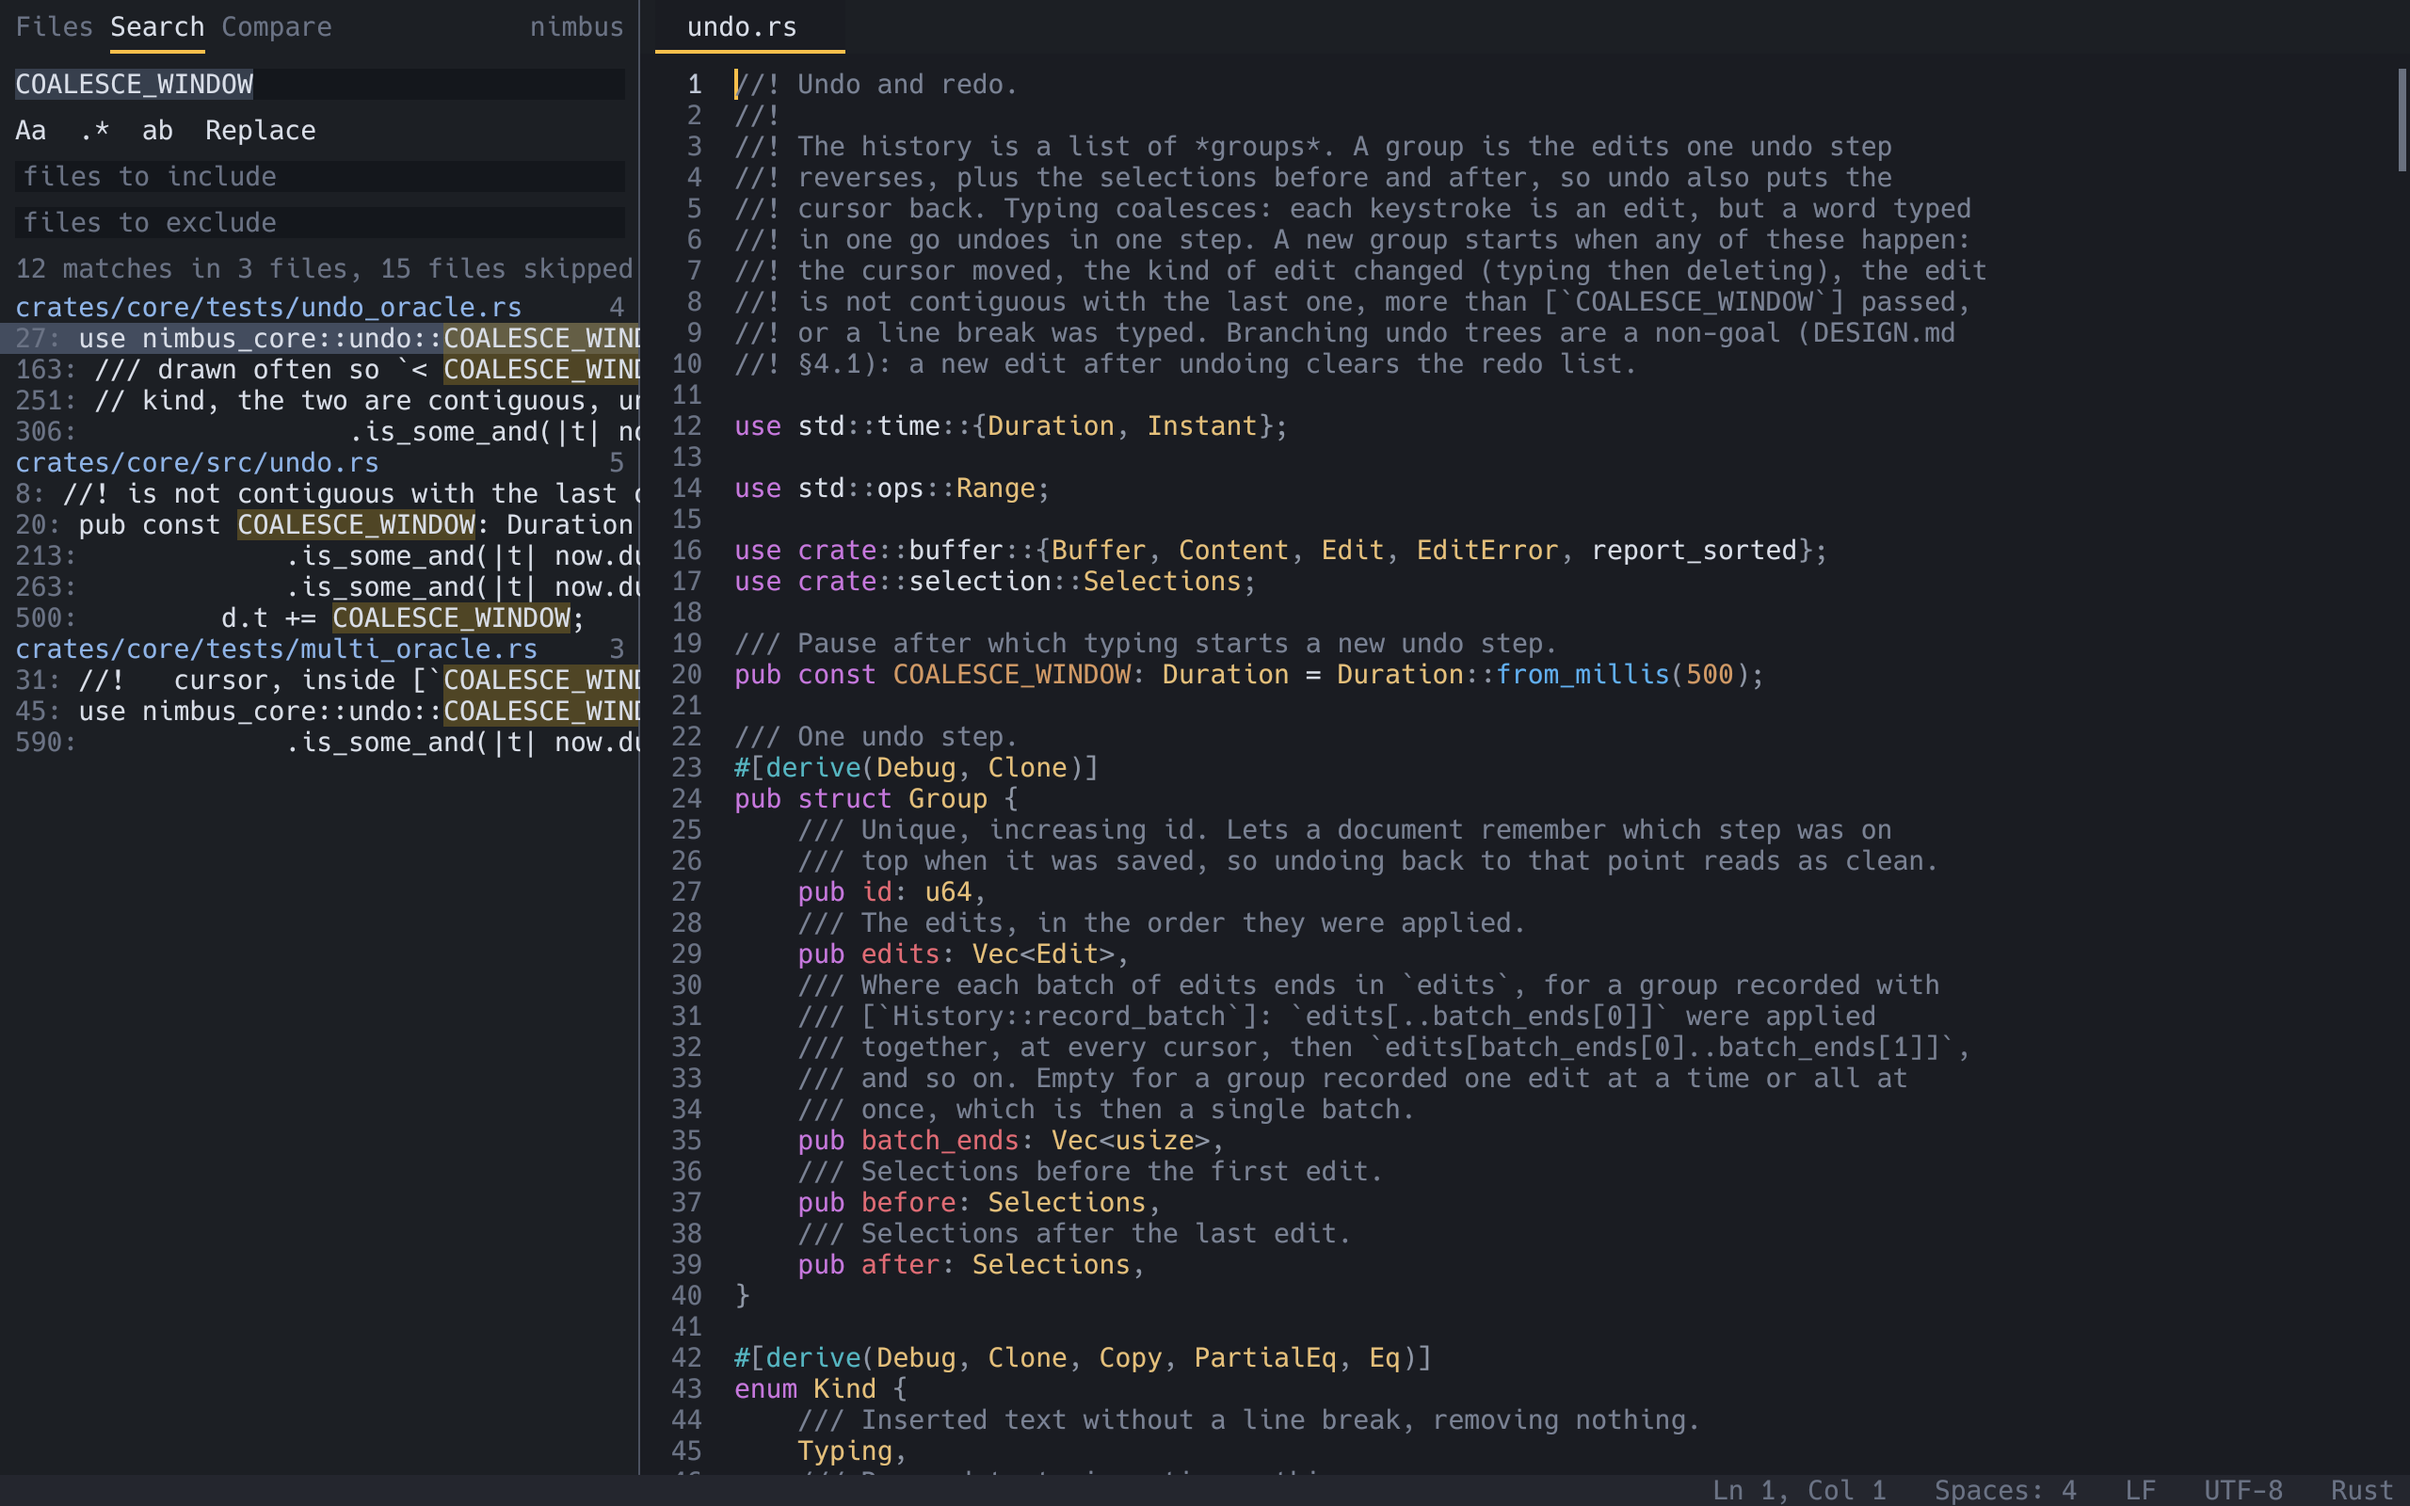
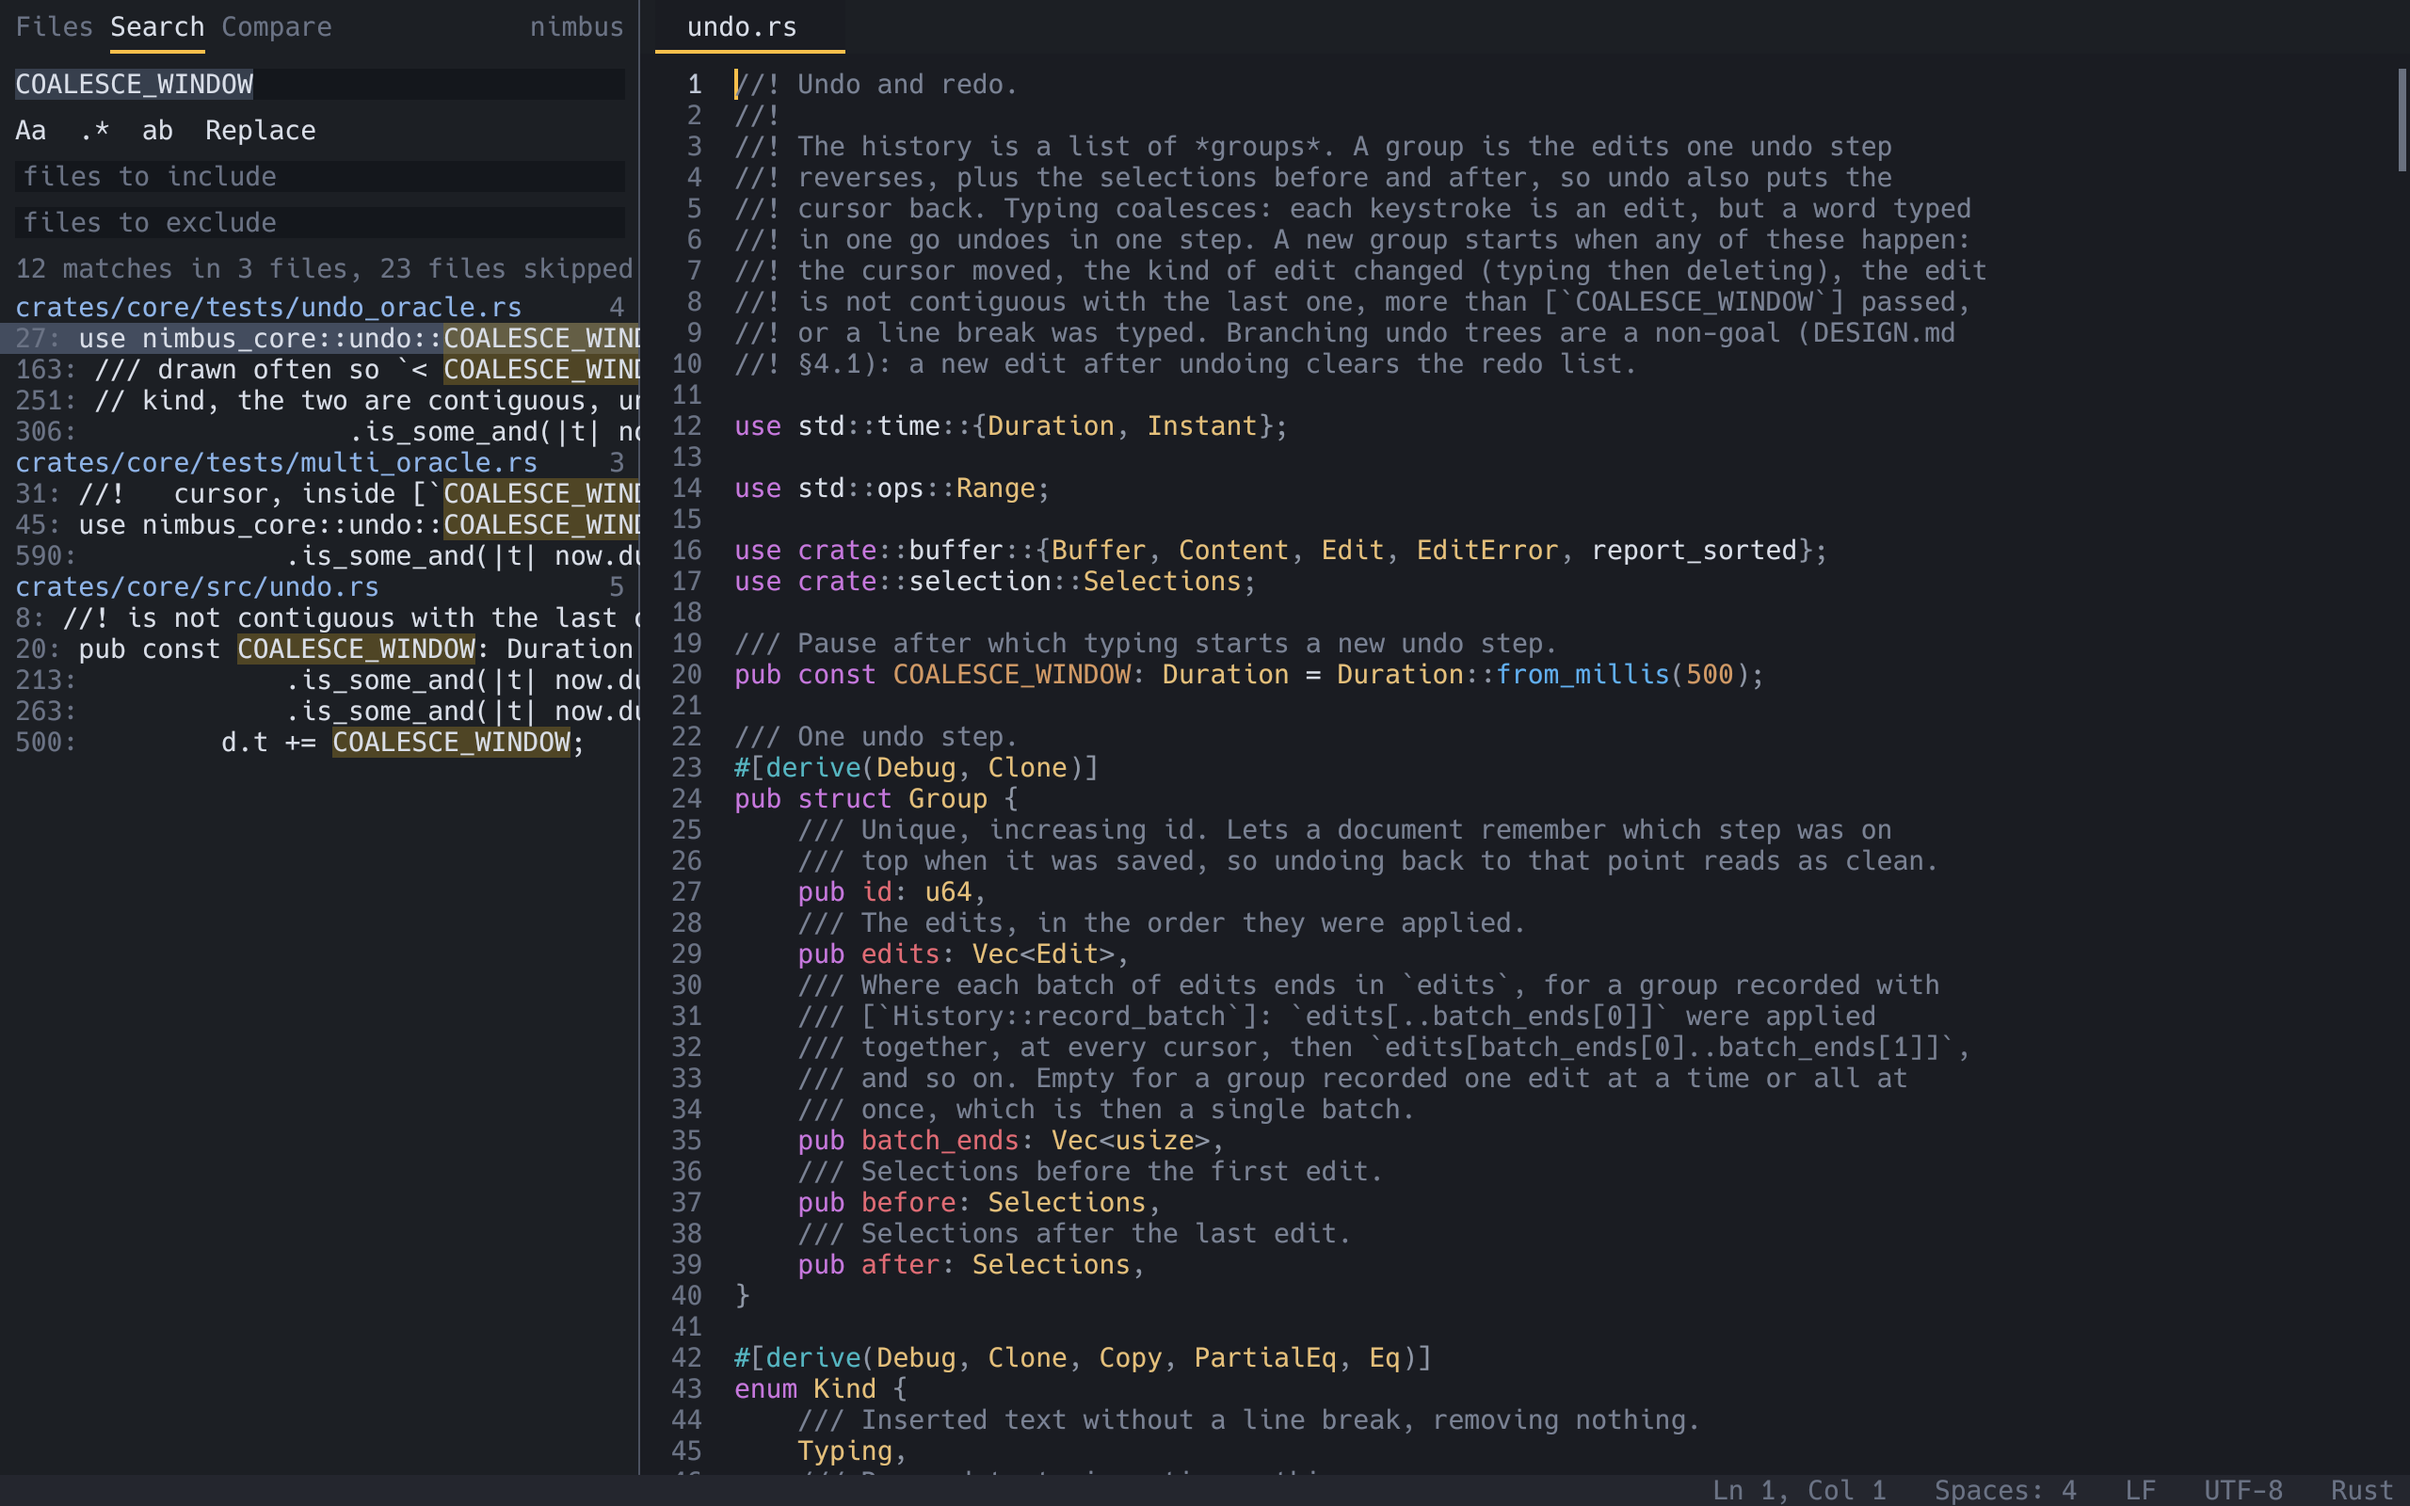
More screenshots in the manual
Eight more 2x headless renders, each in the manual chapter for its
feature: a workspace of two folders and whitespace with indent guides
(window), soft wrap on a Markdown table (editing), Go to Symbol
(navigation), the debug overlay (troubleshooting), a folder compare
(compare and merge), a 4 GB log at its last line (large files) and four
languages in a grid (languages). The README's gallery gains the last two.

scripts/screenshots.sh makes them all. The folder compare diffs
crates/core/src at v0.2.0 against a fixed later commit, so its list
does not change as main moves on, and is cropped to the sidebar. The
huge-file shot needs bench/gen.sh logs and the language grid needs
ImageMagick; each is skipped with a note when missing.

Find in Files skips binary files, so the new PNGs raise the search
shot's "files skipped" count; it is remade to match.

Changed region(s): [[0.0, 0.2812, 0.2812, 0.5]]

diff --git a/docs/manual/window.md b/docs/manual/window.md
@@ -122,6 +122,8 @@ Dragging a folder adds it to the workspace.
 
 ### Workspaces: several folders at once
 
+<img src="../../assets/screenshots/workspace.png" alt="A workspace of two folders, core and syntax, each with its own row at the top of its tree" width="800">
+
 A workspace is the folders in the sidebar and the files you had open.
 Nimbus remembers one per project folder by itself (see
 [Sessions](getting-started.md#sessions-picking-up-where-you-left-off)).
@@ -218,6 +220,8 @@ example), Nimbus reloads it as described in
 [Updates and troubleshooting](troubleshooting.md#when-a-file-changes-on-disk).
 
 ## Zoom, whitespace and indent guides
+
+<img src="../../assets/screenshots/guides.png" alt="Spaces drawn as dots and a thin indent guide at each indentation level" width="800">
 
 Zoom In (`Cmd+=` / `Ctrl+=`), Zoom Out (`Cmd+-` / `Ctrl+-`) and Reset
 Zoom (`Cmd+0` / `Ctrl+0`) change the text size by one point at a time,

diff --git a/README.md b/README.md
@@ -121,6 +121,10 @@ from opening your first file to themes, languages and key bindings.
 <td><img src="assets/screenshots/multicursor.png" alt="Five cursors editing at once"><br><sub>Several cursors, one undo step</sub></td>
 <td><img src="assets/screenshots/find.png" alt="The find bar with highlighted matches"><br><sub>Find in the current file</sub></td>
 </tr>
+<tr>
+<td><img src="assets/screenshots/languages.png" alt="Python, shell, TOML and YAML highlighted"><br><sub>Fourteen languages built in</sub></td>
+<td><img src="assets/screenshots/hugefile.png" alt="A 4 GB log open at its last line"><br><sub>A 4 GB log, all 65 million lines counted</sub></td>
+</tr>
 </table>
 
 ## Installation

diff --git a/docs/manual/compare-and-merge.md b/docs/manual/compare-and-merge.md
@@ -67,6 +67,8 @@ runs, and never apply to merges, where every difference matters.
 
 ### Comparing folders
 
+<img src="../../assets/screenshots/folders.png" alt="The Compare tab listing the files that differ between two folders, marked + for only on the right and ≠ for different" width="340">
+
 **Compare Folders…** asks for two folders, one after the other (or run
 `nimbus --diff FOLDER_A FOLDER_B`). The Compare tab lists every file that
 differs, sorted by path, as the two folders are read:

diff --git a/docs/manual/editing.md b/docs/manual/editing.md
@@ -190,6 +190,8 @@ only says how wide a tab character is drawn.
 
 ## Soft wrap
 
+<img src="../../assets/screenshots/wrap.png" alt="A Markdown table whose long rows wrap at the window edge, each wrapped row keeping one line number" width="800">
+
 Toggle Soft Wrap (`Option+Z` / `Alt+Z`) wraps long lines at word
 boundaries to fit the window, for the current tab only. Up and Down then
 move by screen row, and the top line stays put when you resize the

diff --git a/docs/manual/troubleshooting.md b/docs/manual/troubleshooting.md
@@ -111,3 +111,5 @@ part of start-up took. Include the log when you report a problem.
 long frames take, the delay from key press to screen, how full the glyph
 cache is, how the file is held in memory, and what background work is
 running. `--debug-overlay` shows it from the start.
+
+<img src="../../assets/screenshots/debug.png" alt="The debug overlay in the top right corner: frame time, latency, glyph cache, buffer, syntax and workers" width="800">

diff --git a/docs/manual/navigation.md b/docs/manual/navigation.md
@@ -70,6 +70,8 @@ gets there.
 
 ## Go to Symbol
 
+<img src="../../assets/screenshots/symbols.png" alt="Go to Symbol narrowed to three methods by typing "record", each with its kind and line" width="800">
+
 `Cmd+Shift+R` / `Ctrl+Shift+R`. Lists the definitions in the current
 file, such as functions, types, classes, constants and macros, with
 their kind and line, and moves the cursor to the one you choose. In

diff --git a/docs/manual/large-files.md b/docs/manual/large-files.md
@@ -5,6 +5,8 @@ multi-gigabyte logs and files with lines millions of characters long. You
 do not have to do anything different; this chapter explains what changes
 behind the scenes, and the few limits you may meet.
 
+<img src="../../assets/screenshots/hugefile.png" alt="A 4 GB log open at its last line, line 65,352,535" width="800">
+
 ## How a file is held
 
 | File | How Nimbus holds it |

diff --git a/docs/manual/languages.md b/docs/manual/languages.md
@@ -6,6 +6,8 @@ shows the language of the active tab.
 
 ## Built-in languages
 
+<img src="../../assets/screenshots/languages.png" alt="Python, shell, TOML and YAML files, each highlighted" width="900">
+
 | Language | Name in config | Chosen for |
 |---|---|---|
 | Rust | `rust` | `.rs` |
